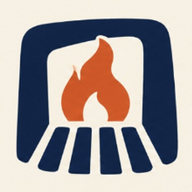
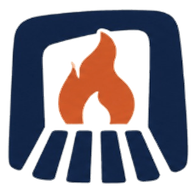
feat: make boardroom entrance gate default first page with refined transparent emblem and smooth transition

diff --git a/components/features/intro-gate/IntroGate.tsx b/components/features/intro-gate/IntroGate.tsx
@@ -2,10 +2,7 @@
 
 import React, { useState, useEffect, useRef, useCallback } from "react";
 import Image from "next/image";
-import { FEATURE_INTRO_GATE } from "@/lib/features/flags";
 import "./intro-gate.css";
-
-const STORAGE_KEY = "grillroom_intro_seen";
 
 interface IntroGateProps {
   onEnter?: () => void;
@@ -24,17 +21,11 @@ interface IntroGateProps {
  * - Safe fallback if any client errors occur
  */
 export const IntroGate: React.FC<IntroGateProps> = ({ onEnter }) => {
-  // If feature flag is disabled at build/runtime, do not render anything
-  if (!FEATURE_INTRO_GATE) {
-    return null;
-  }
-
   return <IntroGateClient onEnter={onEnter} />;
 };
 
 function IntroGateClient({ onEnter }: { onEnter?: () => void }) {
-  const [mounted, setMounted] = useState(false);
-  const [isVisible, setIsVisible] = useState(false);
+  const [isVisible, setIsVisible] = useState(true);
   const [isOpening, setIsOpening] = useState(false);
   const [isFadingOut, setIsFadingOut] = useState(false);
   const [hasError, setHasError] = useState(false);
@@ -42,20 +33,6 @@ function IntroGateClient({ onEnter }: { onEnter?: () => void }) {
   const buttonRef = useRef<HTMLButtonElement>(null);
   const leftDoorRef = useRef<HTMLDivElement>(null);
   const safetyTimerRef = useRef<NodeJS.Timeout | null>(null);
-
-  // Check sessionStorage on client mount
-  useEffect(() => {
-    try {
-      setMounted(true);
-      const seen = typeof window !== "undefined" && window.sessionStorage.getItem(STORAGE_KEY);
-      if (!seen) {
-        setIsVisible(true);
-      }
-    } catch {
-      // Storage blocked / incognito edge cases -> show intro once
-      setIsVisible(true);
-    }
-  }, []);
 
   // Lock body scroll and set focus when intro is active
   useEffect(() => {
@@ -76,14 +53,6 @@ function IntroGateClient({ onEnter }: { onEnter?: () => void }) {
   }, [isVisible]);
 
   const handleFinishEntry = useCallback(() => {
-    try {
-      if (typeof window !== "undefined") {
-        window.sessionStorage.setItem(STORAGE_KEY, "true");
-      }
-    } catch {
-      // Ignore storage errors
-    }
-
     setIsVisible(false);
     onEnter?.();
   }, [onEnter]);
@@ -141,12 +110,7 @@ function IntroGateClient({ onEnter }: { onEnter?: () => void }) {
     return null;
   }
 
-  // Before client mount, render plain dark cover when flag is ON to prevent any flash of main app
-  if (!mounted) {
-    return <div className="intro-screen" style={{ background: "#080A0F" }} aria-hidden="true" />;
-  }
-
-  // Already entered during this session: render nothing
+  // Already entered: render nothing
   if (!isVisible) {
     return null;
   }

diff --git a/scripts/prepare-brand-assets.ts b/scripts/prepare-brand-assets.ts
@@ -27,13 +27,28 @@ async function prepareBrandAssets() {
   console.log("✅ logo-header.png and logo-header.webp generated");
 
   // 2. Crop the mark (the emblem on the left: fireplace/flame)
-  // Perfectly centered 220x220 crop of the fireplace and flame emblem
   const markSource = fs.existsSync(path.join(brandDir, "grillroom-logo-raw.png"))
     ? path.join(brandDir, "grillroom-logo-raw.png")
     : inputLogo;
 
-  await sharp(markSource)
-    .extract({ left: 172, top: 141, width: 220, height: 220 })
+  const croppedBuffer = await sharp(markSource)
+    .extract({ left: 182, top: 152, width: 198, height: 198 })
+    .ensureAlpha()
+    .raw()
+    .toBuffer({ resolveWithObject: true });
+
+  const rawData = Buffer.from(croppedBuffer.data);
+  for (let i = 0; i < rawData.length; i += 4) {
+    const r = rawData[i], g = rawData[i + 1], b = rawData[i + 2];
+    const diff = Math.abs(r - 247) + Math.abs(g - 241) + Math.abs(b - 229);
+    if (diff < 35) {
+      rawData[i + 3] = 0;
+    } else if (diff < 65) {
+      rawData[i + 3] = Math.round(((diff - 35) / 30) * 255);
+    }
+  }
+
+  await sharp(rawData, { raw: croppedBuffer.info })
     .resize(512, 512)
     .png({ quality: 95 })
     .toFile(path.join(brandDir, "logo-mark.png"));

diff --git a/components/features/intro-gate/intro-gate.css b/components/features/intro-gate/intro-gate.css
@@ -187,14 +187,20 @@
   display: flex;
   align-items: center;
   justify-content: center;
-  margin-bottom: 0.25rem;
+  width: 68px;
+  height: 68px;
+  border-radius: 18px;
+  background: rgba(20, 40, 79, 0.75);
+  border: 1px solid rgba(212, 175, 55, 0.35);
+  box-shadow: 0 8px 24px rgba(0, 0, 0, 0.45), 0 0 16px rgba(249, 115, 22, 0.25);
+  margin-bottom: 0.5rem;
 }
 
 .intro-logo-img {
-  width: 56px;
-  height: 56px;
+  width: 48px;
+  height: 48px;
   object-fit: contain;
-  filter: drop-shadow(0 4px 16px rgba(249, 115, 22, 0.4));
+  filter: drop-shadow(0 2px 8px rgba(249, 115, 22, 0.5));
 }
 
 /* Tagline / Eyebrow */

diff --git a/app/page.tsx b/app/page.tsx
@@ -14,11 +14,9 @@ import {
   Trash2,
   Check,
 } from "lucide-react";
-import dynamic from "next/dynamic";
 import { PitchRulesSidebar } from "@/components/landing/PitchRulesSidebar";
 import { HowItWorksModal } from "@/components/landing/HowItWorksModal";
-
-const IntroGate = dynamic(() => import("@/components/features/intro-gate/IntroGate").then((mod) => mod.IntroGate), { ssr: false });
+import { IntroGate } from "@/components/features/intro-gate/IntroGate";
 
 export default function SetupPage() {
   const router = useRouter();

diff --git a/tests/pages.test.tsx b/tests/pages.test.tsx
@@ -26,7 +26,7 @@ describe("Page Components Integration Suite", () => {
       render(<HomePage />);
       expect(screen.getByText("AI INVESTOR PANEL · PITCH PRACTICE")).toBeInTheDocument();
       expect(screen.getByPlaceholderText(/Paste your investor pitch/i)).toBeInTheDocument();
-      expect(screen.getByRole("button", { name: /Enter the GrillRoom/i })).toBeInTheDocument();
+      expect(screen.getAllByRole("button", { name: /Enter the GrillRoom/i }).length).toBeGreaterThanOrEqual(1);
     });
   });
 
